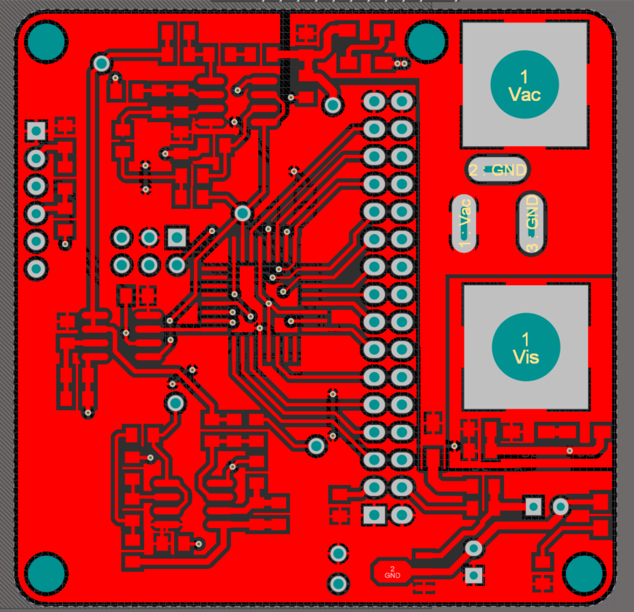
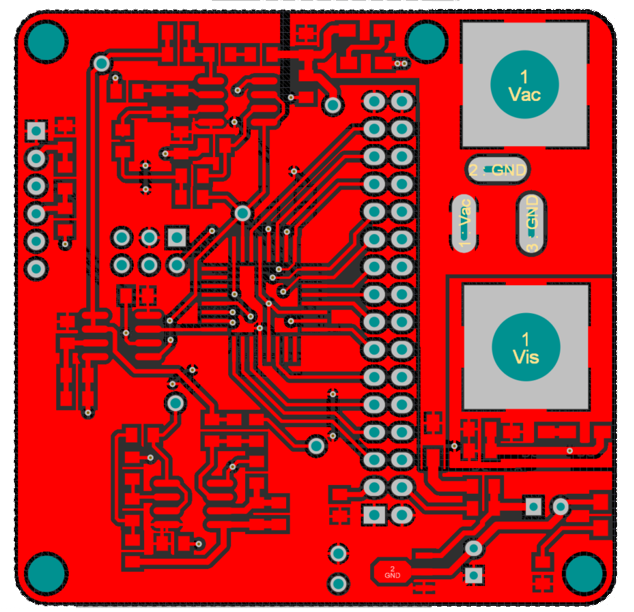
Updated presentation
Removed grey parts of images
shifted images for alignment

Changed region(s): [[0.0, 0.0, 1.0, 1.0]]

diff --git a/index.html b/index.html
@@ -156,7 +156,7 @@
       content: "";
       position: absolute;
       top: 270px;
-      left: 70px;
+      left: 90px;
       height: 450px;
       width: 450px;
       background-repeat: no-repeat;
@@ -168,8 +168,8 @@
     .pcb-image {
       content: "";
       position: absolute;
-      top: 270px;
-      right: 200px;
+      top: 265px;
+      right: 185px;
       height: 465px;
       width: 465px;
       background-repeat: no-repeat;
@@ -272,7 +272,7 @@
     .smeChallenge2 {
       content: "";
       position: absolute;
-      top: 120px;
+      top: 140px;
       right: 200px;
       height: 700px;
       width: 700px;
